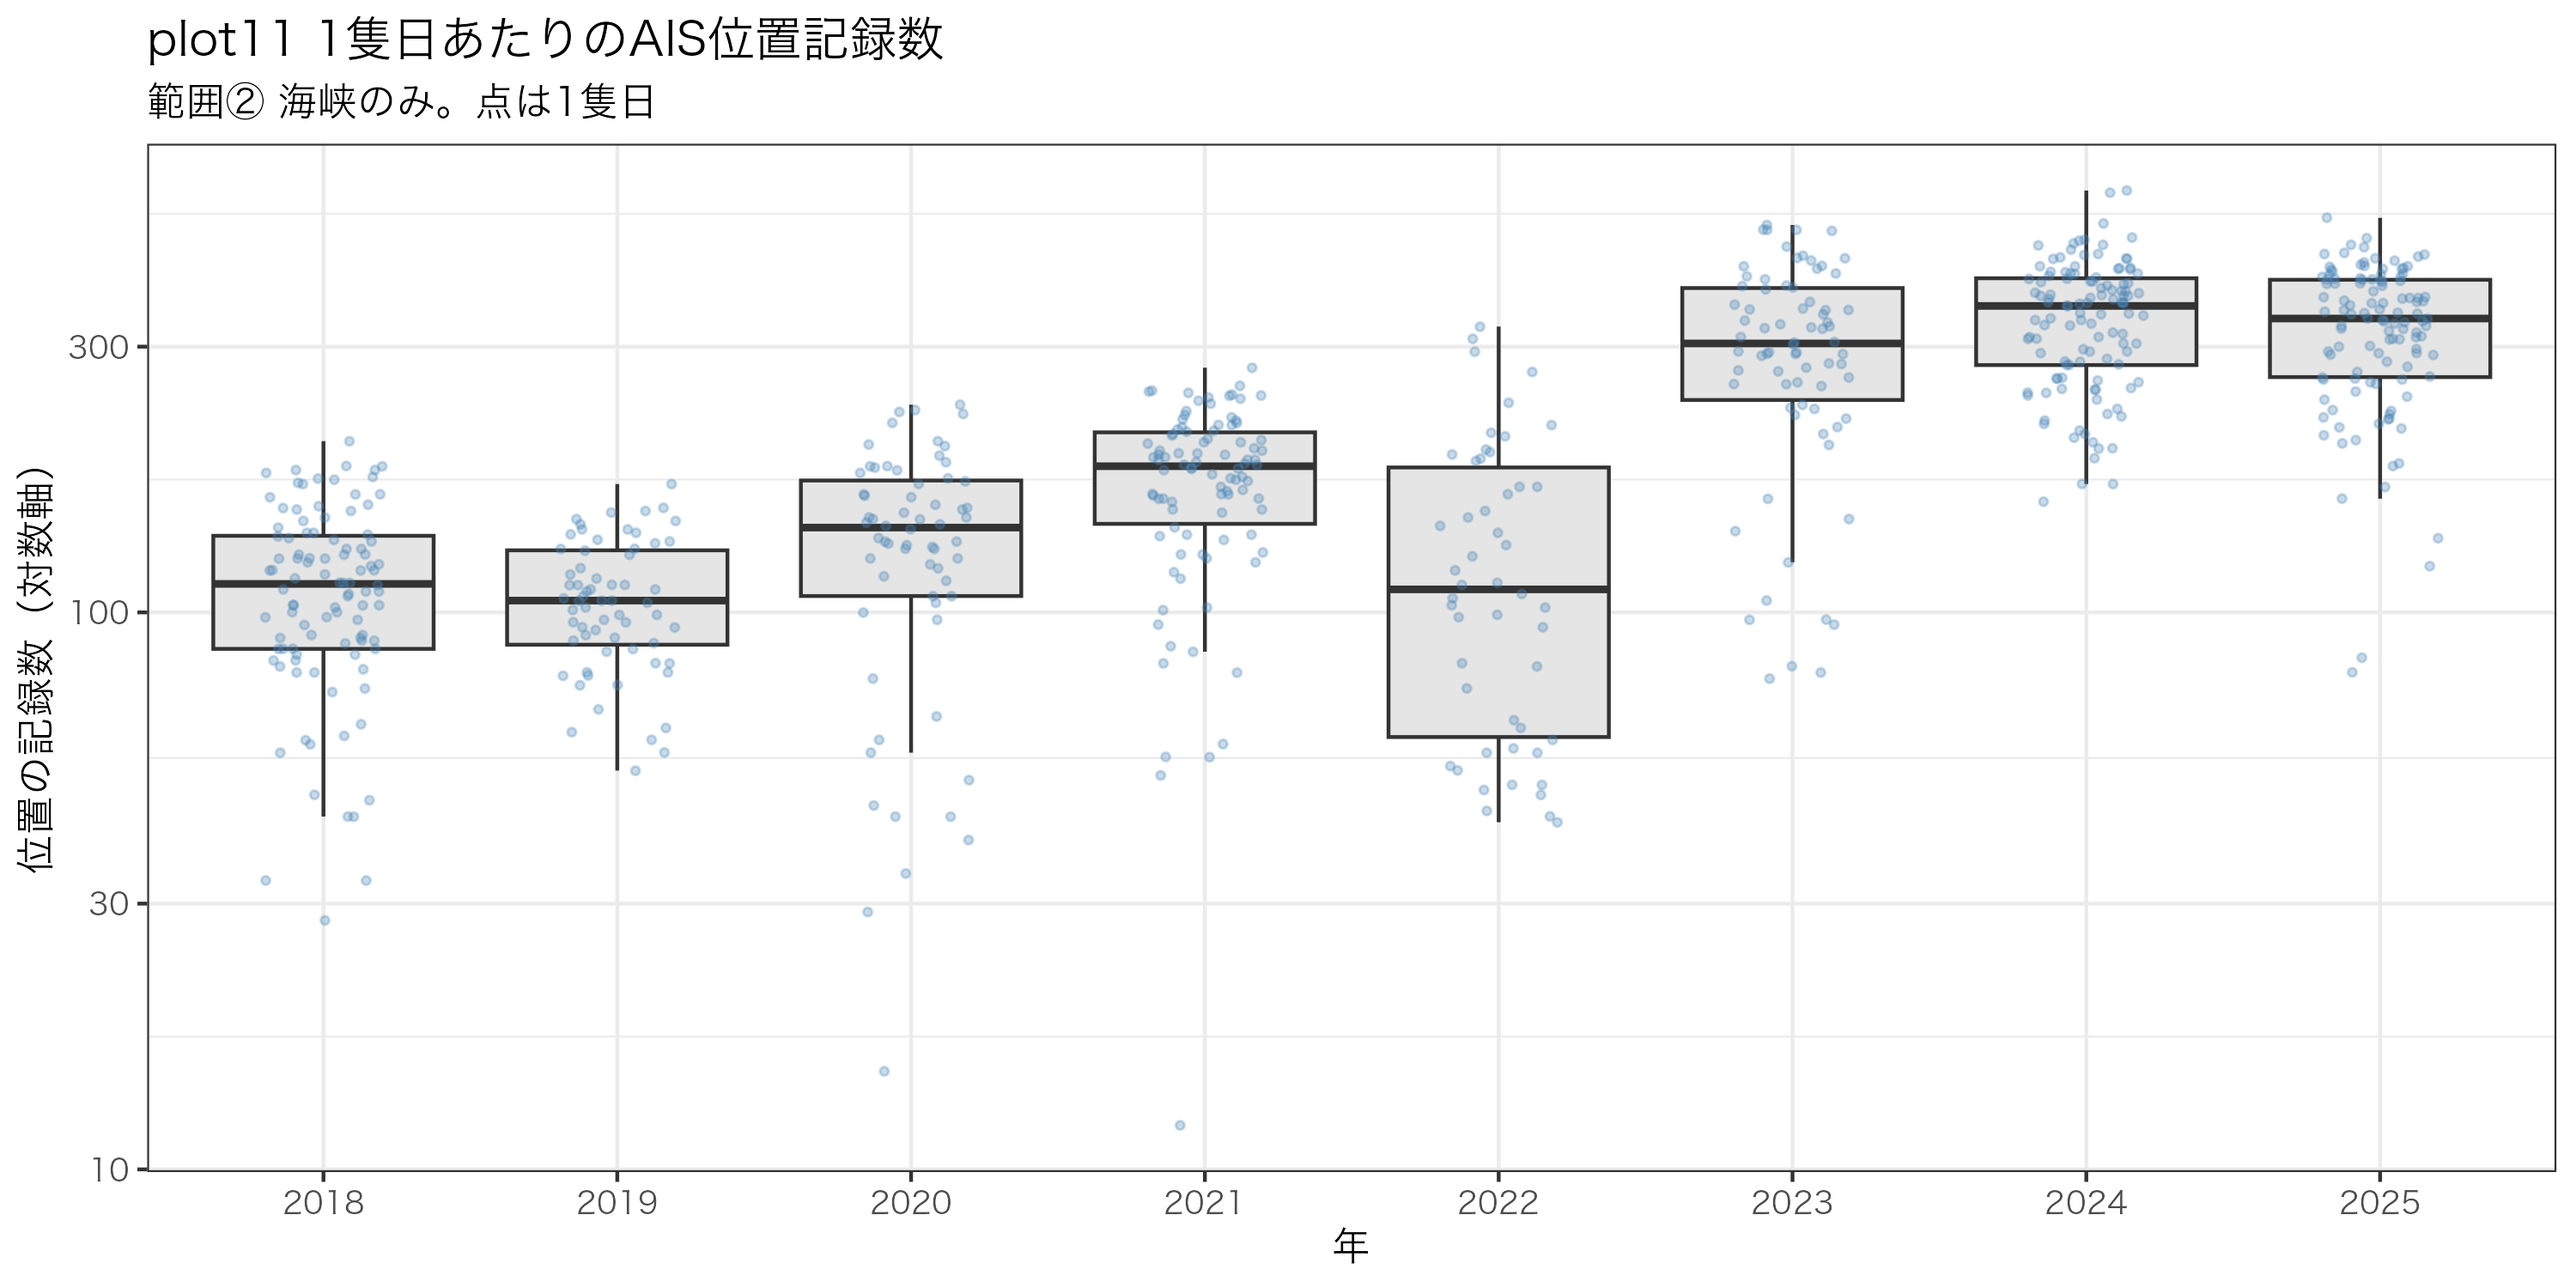
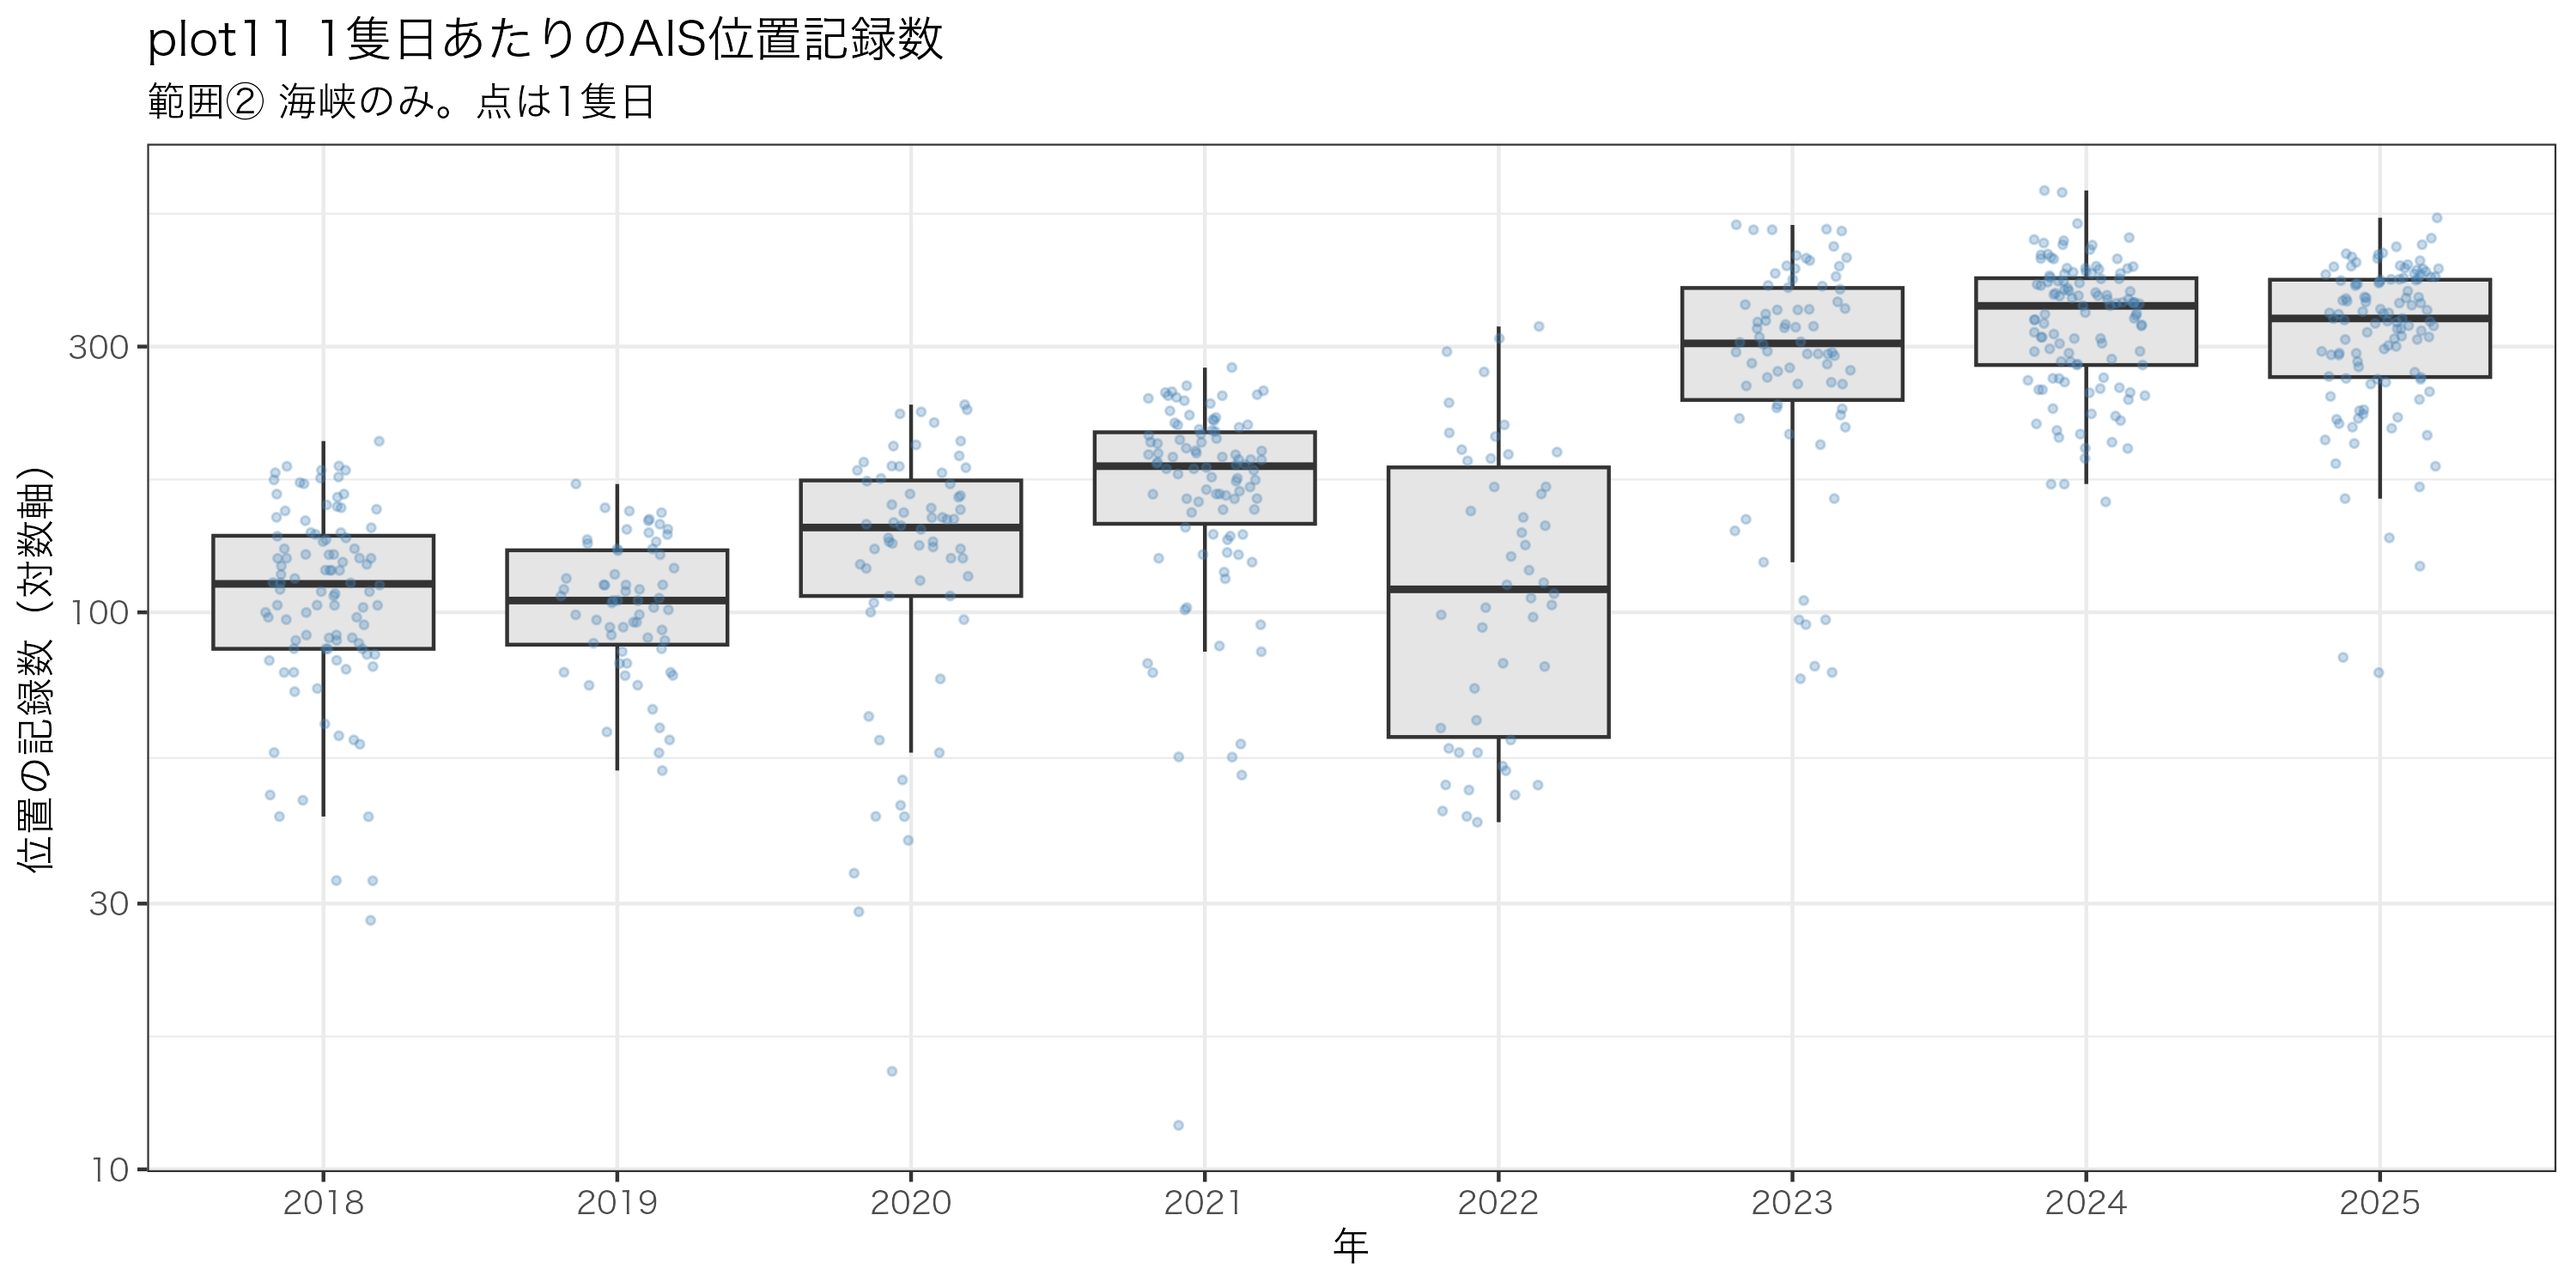
Split strait by JCG reference line; compare SAR and GFW by side

diff --git a/paper/sources.md b/paper/sources.md
@@ -20,8 +20,8 @@
 
 | 14 | 根室海峡の範囲：南口は納沙布岬–ケラムイ埼、北口は知床岬–ルルイ岬。全長約130km、最狭部は野付水道付近で国後島まで約17km。北口中央部の水深は2,400m超 | 海上保安庁 第一管区海上保安本部 海洋情報部「海峡」https://www1.kaiho.mlit.go.jp/KAN1/soudan/kaikyo.html | 確認済 |
 | 15 | 北方四島周辺水域操業枠組協定に基づく交渉は、令和5（2023）年分の操業に係る協議からロシア側が応じていない状況が続いている（2025年時点） | 令和7年度水産白書 第4章 p.135 https://www.jfa.maff.go.jp/j/kikaku/wpaper/R7/attach/pdf/260605_1-9.pdf ；操業水域の図は令和4年度水産白書 図表特-1-15 | 確認済 |
+| 16 | 根室海峡の参考ライン（22点、世界測地系）。北海道漁業調整規則にもとづき、日本の漁船はこの線の東側に入ると臨検・拿捕のおそれがある | 根室海上保安部「根室海峡航行時の注意」令和8年5月1日現在 https://www.kaiho.mlit.go.jp/01kanku/nemuro/kaikyou/images/R8_chui.pdf | 確認済 |
 
 ## まだ欲しい出典
 - 羅臼・標津・別海の魚種別水揚げの年次データ（北海道水産現勢）
-- 根室海峡の日ロ中間ラインと、ロシアが主張する領海線の座標
 - 安全操業水域（図表特-1-15）の座標 → GFWと重ねるためにポリゴン化する
